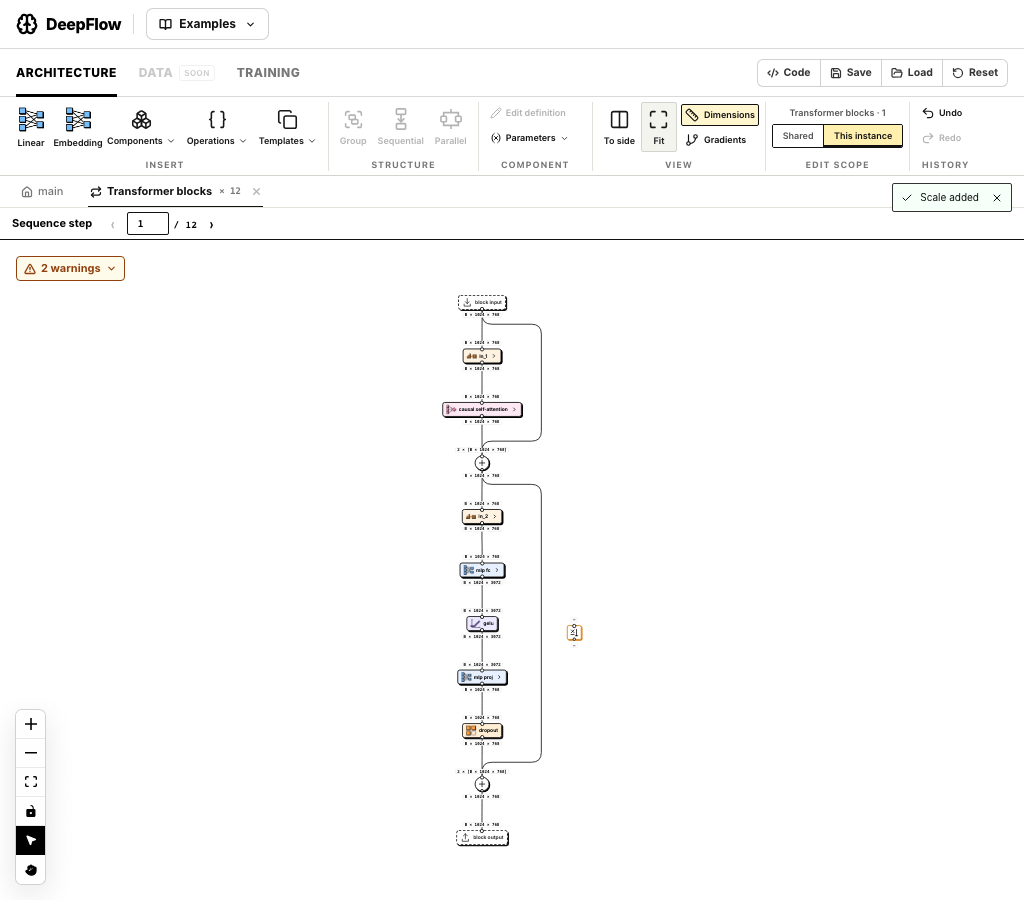
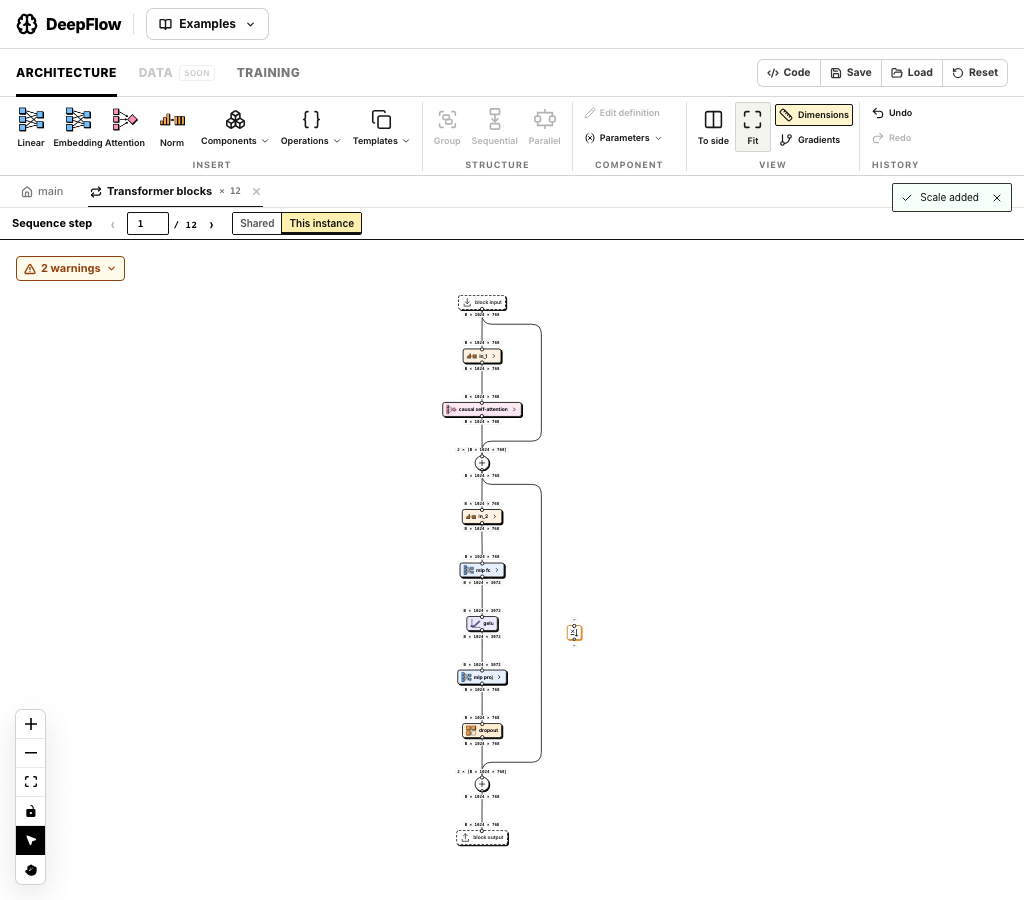
Place instance scope switch beside the repeat navigator

Changed region(s): [[0.0938, 0.0933, 0.9375, 0.1867], [0.25, 0.2178, 0.375, 0.28]]

diff --git a/src/components/architecture/ArchitectureRibbon.jsx b/src/components/architecture/ArchitectureRibbon.jsx
@@ -1,7 +1,7 @@
 import { useCallback, useEffect, useRef, useState } from 'react';
 import { ArrowUpRight, Boxes, Braces, Check, ChevronDown, Columns2, Copy, GitBranch, Group, Maximize, Pencil, Redo2, Ruler, Undo2, Variable, X } from 'lucide-react';
 import { resolveGraphLevel } from '../../domain/architecture/index.js';
-import { effectiveTemplateId } from '../../domain/architecture/instanceStructure.js';
+import { effectiveTemplateId, inspectedInstanceIndex } from '../../domain/architecture/instanceStructure.js';
 import { resolveComponentContext } from '../../domain/componentContext.js';
 import { useValidation, useValidationContext } from '../../hooks/useValidation.js';
 import { useArchitectureStore, useArchitectureStoreApi } from '../../stores/architectureStore.js';
@@ -68,12 +68,8 @@ export default function ArchitectureRibbon({ paneId, split, onInsert, onFitView 
     const level = resolveGraphLevel(graph, currentPath, templates, inspectedIterations);
     const selection = selectedNodeIds.map((id) => level.graph.nodes[id]).filter(Boolean);
     const selectedComponent = selection.length === 1 && ['supernode', 'repeat'].includes(selection[0].kind) ? selection[0] : null;
-    const scopePath = selectedComponent ? [...currentPath, selectedComponent.id] : currentPath;
-    const structureScope = architectureStore.getState().getStructureScope(scopePath);
-    const scopeLabel = structureScope.available
-        ? `${structureScope.label}${structureScope.index === null ? '' : ` · ${structureScope.index + 1}`}`
-        : 'Select a component';
-    const templateId = selectedComponent ? effectiveTemplateId(selectedComponent, structureScope.index ?? 0) : level.templateId;
+    const selectedIteration = selectedComponent ? inspectedInstanceIndex(selectedComponent, [...currentPath, selectedComponent.id], inspectedIterations) : 0;
+    const templateId = selectedComponent ? effectiveTemplateId(selectedComponent, selectedIteration) : level.templateId;
     const template = templates[templateId];
     const selectedRepeatMode = selectedComponent?.kind === 'repeat' ? selectedComponent.mode ?? 'sequential' : null;
     const quickEntries = pins.map((key) => PINNABLE_ENTRIES.find((entry) => entry.key === key)).filter(Boolean);
@@ -216,19 +212,6 @@ export default function ArchitectureRibbon({ paneId, split, onInsert, onFitView 
                 <div className="df-ribbon-view-options">
                     <button type="button" aria-label="Show dimensions" aria-pressed={showDimensions} onClick={() => architectureStore.getState().setShowDimensions(!showDimensions)} title="Show tensor dimensions at input and output ports"><Ruler size={14} />Dimensions</button>
                     <button type="button" aria-label="Show gradient flow" aria-pressed={!!showGradientFlow} onClick={() => architectureStore.getState().setShowGradientFlow(!showGradientFlow)} title="Show differentiable paths and stopped gradients"><GitBranch size={14} />Gradients</button>
-                </div>
-            </RibbonGroup>
-            <RibbonGroup label="Edit scope" className="df-ribbon-scope">
-                <div className="df-ribbon-scope-control">
-                    <span className="df-ribbon-scope-target" title={scopeLabel}>{scopeLabel}</span>
-                    <div className="df-ribbon-scope-switch" role="group" aria-label="Structure edit scope">
-                        <button type="button" disabled={!structureScope.available} aria-pressed={structureScope.available && !structureScope.local}
-                            onClick={() => { closePopup(); architectureStore.getState().setStructureScope('shared', scopePath); }}
-                            title="Edit the structure shared by all linked instances. A saved local structure is kept.">Shared</button>
-                        <button type="button" disabled={!structureScope.available} aria-pressed={structureScope.available && structureScope.local}
-                            onClick={() => { closePopup(); architectureStore.getState().setStructureScope('local', scopePath); }}
-                            title={structureScope.hasSavedLocal ? 'Resume the saved structure for this instance only.' : 'Edit a separate structure for this instance only.'}>This instance</button>
-                    </div>
                 </div>
             </RibbonGroup>
             <RibbonGroup label="History" className="df-ribbon-history">

diff --git a/src/components/architecture/ribbon.css b/src/components/architecture/ribbon.css
@@ -20,18 +20,6 @@
 .df-ribbon-component .df-ribbon-command-list { gap: 3px; }
 .df-ribbon-component .df-ribbon-command-list button, .df-ribbon-history .df-ribbon-command-list button { height: 22px; }
 .df-ribbon-history .df-ribbon-command-list { width: 59px; gap: 3px; }
-.df-ribbon-scope-control { display: flex; flex-direction: column; justify-content: center; gap: 5px; width: 143px; height: 50px; }
-.df-ribbon-scope-target { overflow: hidden; text-overflow: ellipsis; white-space: nowrap; color: #555; font-size: 9px; font-weight: 600; line-height: 12px; text-align: center; }
-.df-ribbon-scope-switch { display: flex; border: 1px solid #111; border-radius: 2px; overflow: hidden; }
-.df-ribbon-scope-switch button { flex: 1 0 auto; min-width: 0; padding: 4px 5px; background: #fff; color: #555; font-size: 10px; font-weight: 600; line-height: 14px; white-space: nowrap; }
-.df-ribbon-scope-switch button + button { border-left: 1px solid #111; }
-.df-ribbon-scope-switch button[aria-pressed="true"] { color: #111; background: #fff0af; box-shadow: inset 0 -2px 0 #111; }
-.df-ribbon-scope-switch button:hover:not(:disabled) { background: #f4f4ef; color: #111; }
-.df-ribbon-scope-switch button[aria-pressed="true"]:hover { background: #ffe994; }
-.df-ribbon-scope-switch:has(button:disabled) { border-color: #d4d4ce; }
-.df-ribbon-scope-switch button:disabled { color: #aaa; cursor: default; }
-.df-ribbon-scope-switch button:disabled + button { border-color: #d4d4ce; }
-.df-ribbon-scope-switch button:focus-visible { outline-offset: -2px; }
 .df-ribbon-view-options { display: flex; flex-direction: column; justify-content: center; gap: 3px; margin-left: 3px; }
 .df-ribbon-view-options button { display: flex; align-items: center; gap: 5px; height: 22px; padding: 2px 5px; border: 1px solid transparent; border-radius: 2px; font-size: 10px; font-weight: 600; }
 .df-ribbon-view-options button:hover { border-color: #d4d4ce; background: #f4f4ef; }
@@ -90,19 +78,14 @@
     .df-ribbon-group { padding-right: 6px; }
     .df-ribbon-actions { gap: 1px; }
     .df-ribbon-family { width: 46px; }
-    .df-ribbon-family:nth-child(n+3) { display: none; }
     .df-ribbon-button { min-width: 36px; padding-left: 4px; padding-right: 4px; font-size: 9px; }
     .df-ribbon-command-list { width: 101px; }
     .df-ribbon-command-list button { font-size: 9px; gap: 4px; }
     .df-ribbon-view-options button { font-size: 9px; padding-left: 3px; padding-right: 3px; }
-    .df-ribbon-scope-control { width: 131px; }
-    .df-ribbon-scope-switch button { padding-left: 4px; padding-right: 4px; font-size: 9px; }
     .df-ribbon-pane-cue { position: absolute; right: 8px; bottom: 4px; font-size: 8px; }
 }
 @media (max-width: 930px) {
-    .df-ribbon-family { display: none; }
-    .df-ribbon-component .df-ribbon-command-list { width: 92px; }
-    .df-ribbon-view-options button { justify-content: center; width: 24px; gap: 0; padding: 2px; font-size: 0; }
+    .df-ribbon-family:nth-child(n+2) { display: none; }
     .df-ribbon-pane-cue { display: none; }
 }
 @media (max-width: 760px) {

diff --git a/src/components/architecture/RepeatIterationBar.jsx b/src/components/architecture/RepeatIterationBar.jsx
@@ -5,8 +5,11 @@ import './repeat-iteration.css';
 export default function RepeatIterationBar() {
     const context = useValidationContext();
     const setInspectedIteration = useArchitectureStore((s) => s.setInspectedIteration);
+    const getStructureScope = useArchitectureStore((s) => s.getStructureScope);
+    const setStructureScope = useArchitectureStore((s) => s.setStructureScope);
     const repeat = context?.repeat;
     if (!repeat) return null;
+    const scope = getStructureScope(repeat.path);
     const select = (index) => setInspectedIteration(repeat.path, Math.max(0, Math.min(repeat.count - 1, index)));
     return (
         <div className="df-iteration-bar">
@@ -16,6 +19,12 @@ export default function RepeatIterationBar() {
                 <input aria-label="Inspected instance number" type="number" min="1" max={Math.max(1, repeat.count)} value={repeat.index + 1} onChange={(event) => select(Number(event.target.value) - 1)} />
                 <span>/ {repeat.count}</span>
                 <button type="button" aria-label="Next instance" disabled={repeat.index >= repeat.count - 1} onClick={() => select(repeat.index + 1)}>›</button>
+            </div>
+            <div className="df-iteration-scope" role="group" aria-label="Structure edit scope">
+                <button type="button" aria-pressed={!scope.local} onClick={() => setStructureScope('shared', repeat.path)}
+                    title="Edit the structure shared by all linked instances. Your saved local structure is kept.">Shared</button>
+                <button type="button" aria-pressed={scope.local} onClick={() => setStructureScope('local', repeat.path)}
+                    title={scope.hasSavedLocal ? `Resume the saved structure for instance ${repeat.index + 1}.` : `Edit the structure of instance ${repeat.index + 1} only.`}>This instance</button>
             </div>
         </div>
     );

diff --git a/src/components/architecture/repeat-iteration.css b/src/components/architecture/repeat-iteration.css
@@ -5,3 +5,10 @@
 .df-iteration-counter button:hover:not(:disabled) { border-color: #111; background: #eee; }
 .df-iteration-counter button:disabled { opacity: .3; }
 .df-iteration-counter > span { font: 600 10px/1 ui-monospace, monospace; }
+.df-iteration-scope { display: inline-flex; flex-shrink: 0; overflow: hidden; border: 1px solid #111; border-radius: 2px; }
+.df-iteration-scope button { padding: 3px 7px; color: #555; background: #fff; font-size: 10px; font-weight: 600; line-height: 15px; white-space: nowrap; }
+.df-iteration-scope button + button { border-left: 1px solid #111; }
+.df-iteration-scope button[aria-pressed="true"] { color: #111; background: #fff0af; box-shadow: inset 0 -2px 0 #111; }
+.df-iteration-scope button:hover { color: #111; background: #f4f4ef; }
+.df-iteration-scope button[aria-pressed="true"]:hover { background: #ffe994; }
+.df-iteration-scope button:focus-visible { outline: 2px solid #2563eb; outline-offset: -2px; }
